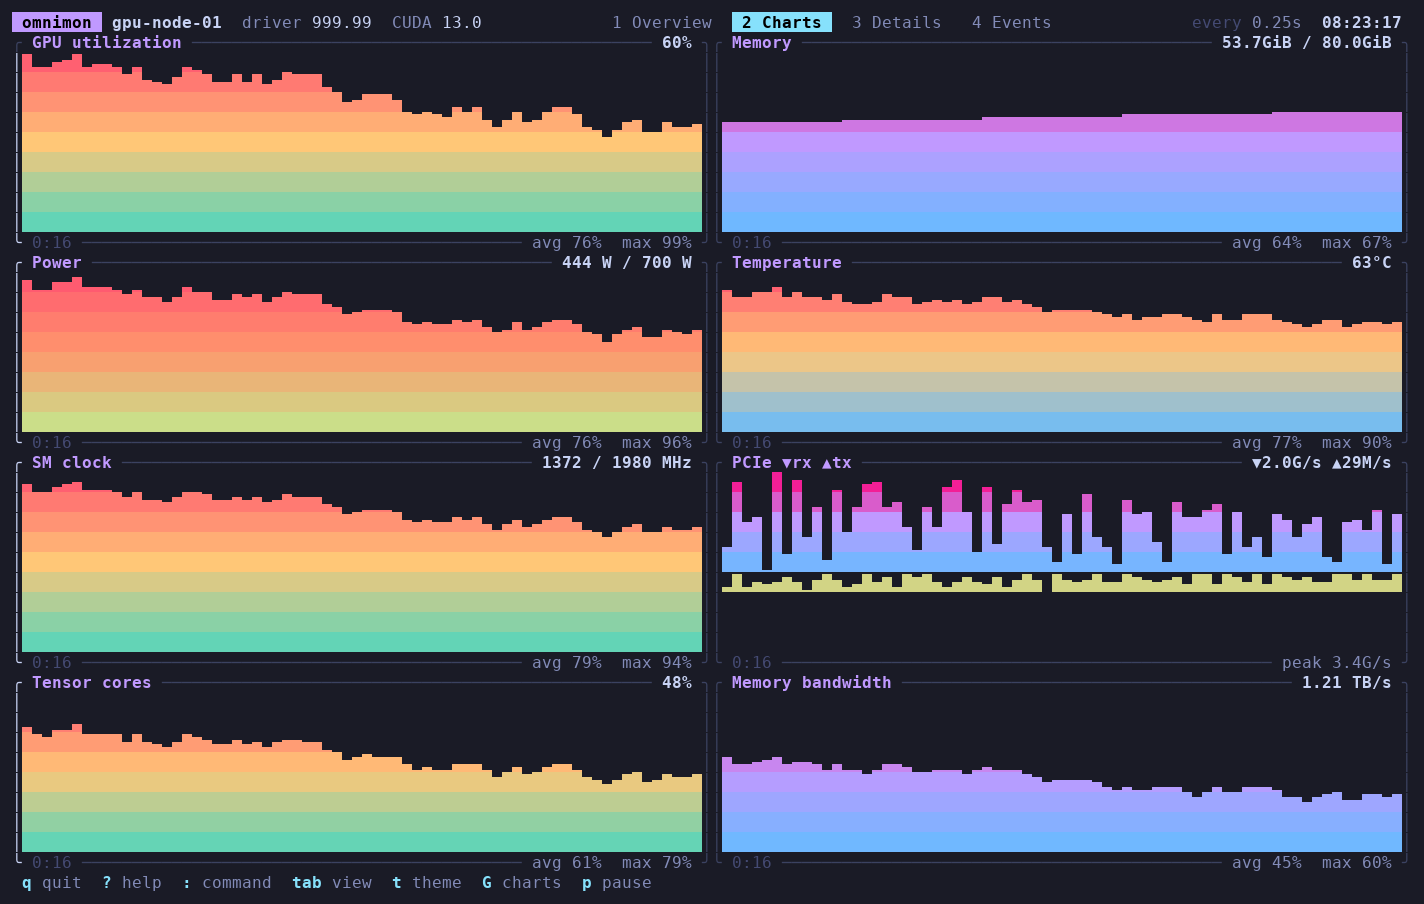
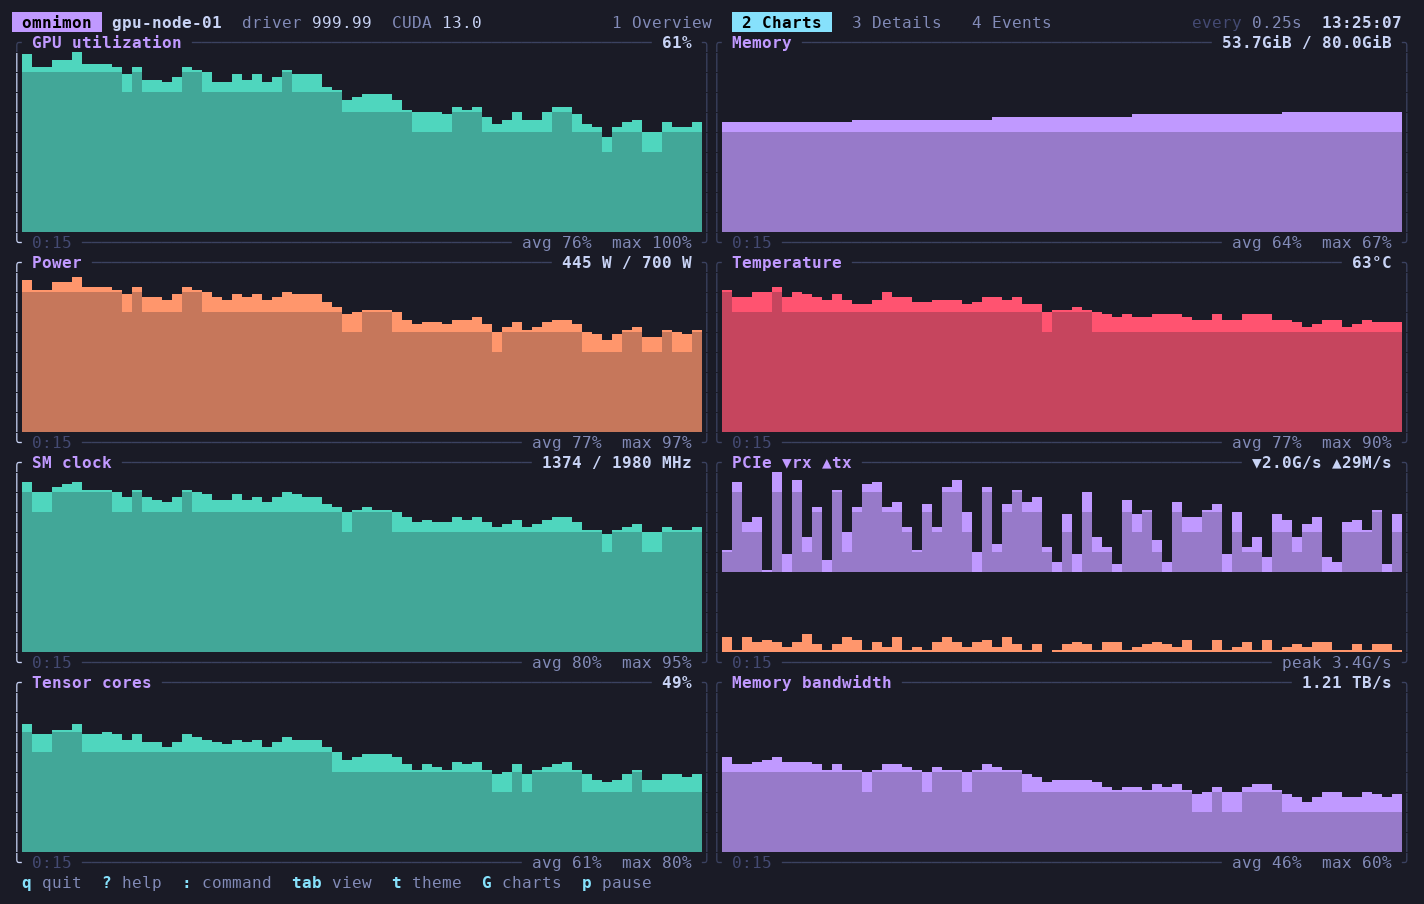
Release 0.1.3
- History as sparkline strips on GPU cards and the host panel, which now
  share one layout; cards are as tall as their bars.
- Mono (one solid color per metric) is the default look.
- Spill only counts while VRAM is nearly full; no more slowdown estimate.
- README and screenshots for the new look.

diff --git a/src/ui/charts.rs b/src/ui/charts.rs
@@ -18,8 +18,8 @@ struct Chart<'a> {
     value: String,
     data: &'a Ring,
     grad: Gradient,
-    /// A second series hanging below, auto-scaled together (PCIe rx/tx).
-    mirror: Option<(&'a Ring, Gradient)>,
+    /// A second series in a lane below, auto-scaled together (PCIe rx/tx).
+    second: Option<(&'a Ring, Gradient)>,
 }
 
 pub(super) fn draw(f: &mut Frame, app: &App, area: Rect, hit: &mut Hit) {
@@ -54,7 +54,7 @@ pub(super) fn draw(f: &mut Frame, app: &App, area: Rect, hit: &mut Hit) {
     };
 
     let mut charts = vec![
-        Chart { title: "GPU utilization", value: fmt::pct(sm.util_gpu), data: &h.util, grad: t.util, mirror: None },
+        Chart { title: "GPU utilization", value: fmt::pct(sm.util_gpu), data: &h.util, grad: t.util, second: None },
         Chart {
             title: "Memory",
             value: match (sm.mem_used, sm.mem_total) {
@@ -63,7 +63,7 @@ pub(super) fn draw(f: &mut Frame, app: &App, area: Rect, hit: &mut Hit) {
             },
             data: &h.mem,
             grad: t.mem,
-            mirror: None,
+            second: None,
         },
         Chart {
             title: "Power",
@@ -74,9 +74,9 @@ pub(super) fn draw(f: &mut Frame, app: &App, area: Rect, hit: &mut Hit) {
             },
             data: &h.power,
             grad: t.power,
-            mirror: None,
+            second: None,
         },
-        Chart { title: "Temperature", value: fmt::opt(sm.temp, "°C"), data: &h.temp, grad: t.temp, mirror: None },
+        Chart { title: "Temperature", value: fmt::opt(sm.temp, "°C"), data: &h.temp, grad: t.temp, second: None },
         Chart {
             title: "SM clock",
             value: match (sm.clock_sm.or(sm.clock_graphics), g.max_clock_sm.or(g.max_clock_graphics)) {
@@ -86,7 +86,7 @@ pub(super) fn draw(f: &mut Frame, app: &App, area: Rect, hit: &mut Hit) {
             },
             data: &h.clock,
             grad: t.util,
-            mirror: None,
+            second: None,
         },
         Chart {
             title: "PCIe ▼rx ▲tx",
@@ -96,11 +96,11 @@ pub(super) fn draw(f: &mut Frame, app: &App, area: Rect, hit: &mut Hit) {
             },
             data: &h.rx,
             grad: t.mem,
-            mirror: Some((&h.tx, t.power)),
+            second: Some((&h.tx, t.power)),
         },
     ];
     if let Some(a) = &sm.activity {
-        charts.push(Chart { title: "Tensor cores", value: fmt::pct(a.tensor), data: &h.tensor, grad: t.util, mirror: None });
+        charts.push(Chart { title: "Tensor cores", value: fmt::pct(a.tensor), data: &h.tensor, grad: t.util, second: None });
         charts.push(Chart {
             title: "Memory bandwidth",
             value: match (a.dram_bw, g.memory_bandwidth) {
@@ -109,7 +109,7 @@ pub(super) fn draw(f: &mut Frame, app: &App, area: Rect, hit: &mut Hit) {
             },
             data: &h.dram,
             grad: t.mem,
-            mirror: None,
+            second: None,
         });
     }
 
@@ -134,7 +134,7 @@ pub(super) fn draw(f: &mut Frame, app: &App, area: Rect, hit: &mut Hit) {
         let secs = app.store.hist.span(c.data, w).unwrap_or(w as f64 * app.interval.as_secs_f64()) as u64;
         let b = b.title_bottom(Line::from(s(format!(" {} ", fmt::duration(secs)), t.faint)));
         let slot = 100 + (i as u32) * 10 + k as u32;
-        match c.mirror {
+        match c.second {
             Some((m, grad2)) => {
                 let mraw = app.store.hist.tail(m, w);
                 let max = raw.iter().chain(mraw).flatten().copied().fold(1.0f64, f64::max);

diff --git a/README.md b/README.md
@@ -28,13 +28,13 @@ hardware; see [Platforms](#platforms-and-data-sources).
 
 ## Features
 
-- **Overview**: a card per GPU with gradient bars (util, memory, power,
-  temperature, clocks, memory bandwidth, fan, encoder/decoder) and a mirrored
-  history chart (utilization up, memory down). On 8+ GPU boxes the cards
+- **Overview**: a card per GPU with bars (util, memory, power, temperature,
+  clocks, memory bandwidth, fan, encoder/decoder) and history strips for
+  utilization, memory, power and temperature. On 8+ GPU boxes the cards
   collapse to one line each. Borders turn red on spill, thermal throttling,
   power brake, ECC errors or a lost GPU.
-- **Host**: per-core CPU heat strip, memory, swap, network and disk throughput,
-  CPU temperature, load.
+- **Host**: the same layout for the machine: CPU with per-core load, memory,
+  swap, network and disk throughput, CPU temperature, load.
 - **Processes**: GPU memory, memory spilled to system RAM (`SYS-MEM`), SM %,
   enc/dec, CPU, RAM, runtime, user, command. Sort, filter, tag and signal.
   `Enter` opens the process: parent chain, children, exe, cwd, GPU-relevant
@@ -44,8 +44,9 @@ hardware; see [Platforms](#platforms-and-data-sources).
   Real anti-aliased pixel plots in terminals that support images (kitty,
   WezTerm, Ghostty, iTerm2, Windows Terminal, VS Code with
   `terminal.integrated.enableImages`), solid block charts everywhere else.
-  Five color schemes for bars and charts (`L`): rainbow, mono, heat (color
-  follows the value), outline, minimal (grey until something runs hot).
+  Five color schemes for bars and charts (`L`): mono (the default, one
+  color per metric), rainbow, heat (color follows the value), outline,
+  minimal (grey until something runs hot).
 - **NVLink and MIG** (NVIDIA data-center GPUs): links up/down, traffic and
   errors per link, peers (GPU or NVSwitch); MIG partitions with memory, SMs,
   processes (`GPU/instance` in the table) and, on Hopper+, utilization.
@@ -92,7 +93,7 @@ hardware; see [Platforms](#platforms-and-data-sources).
 
 When a workload outgrows VRAM, the driver or runtime puts the overflow in
 system memory, and every access crosses PCIe at a fraction of VRAM
-bandwidth. Nothing crashes; it just gets several times slower. (Windows'
+bandwidth. Nothing crashes; bandwidth-bound work just gets slower. (Windows'
 NVIDIA "sysmem fallback" does this silently; so does a model partly offloaded
 to the CPU.)
 
@@ -182,7 +183,7 @@ omnimon --connect HOST      watch another machine running --serve (read-only)
 omnimon --diagnose          what was detected, and why things are missing
 omnimon --demo 8            8 simulated GPUs
 omnimon --graphics sixel    force a graphics protocol (auto|kitty|sixel|iterm2|off)
-omnimon --look heat         chart colors (rainbow|mono|heat|outline|minimal)
+omnimon --look heat         chart colors (mono|rainbow|heat|outline|minimal)
 omnimon --theme nord        color theme; --no-color for plain output
 ```
 
